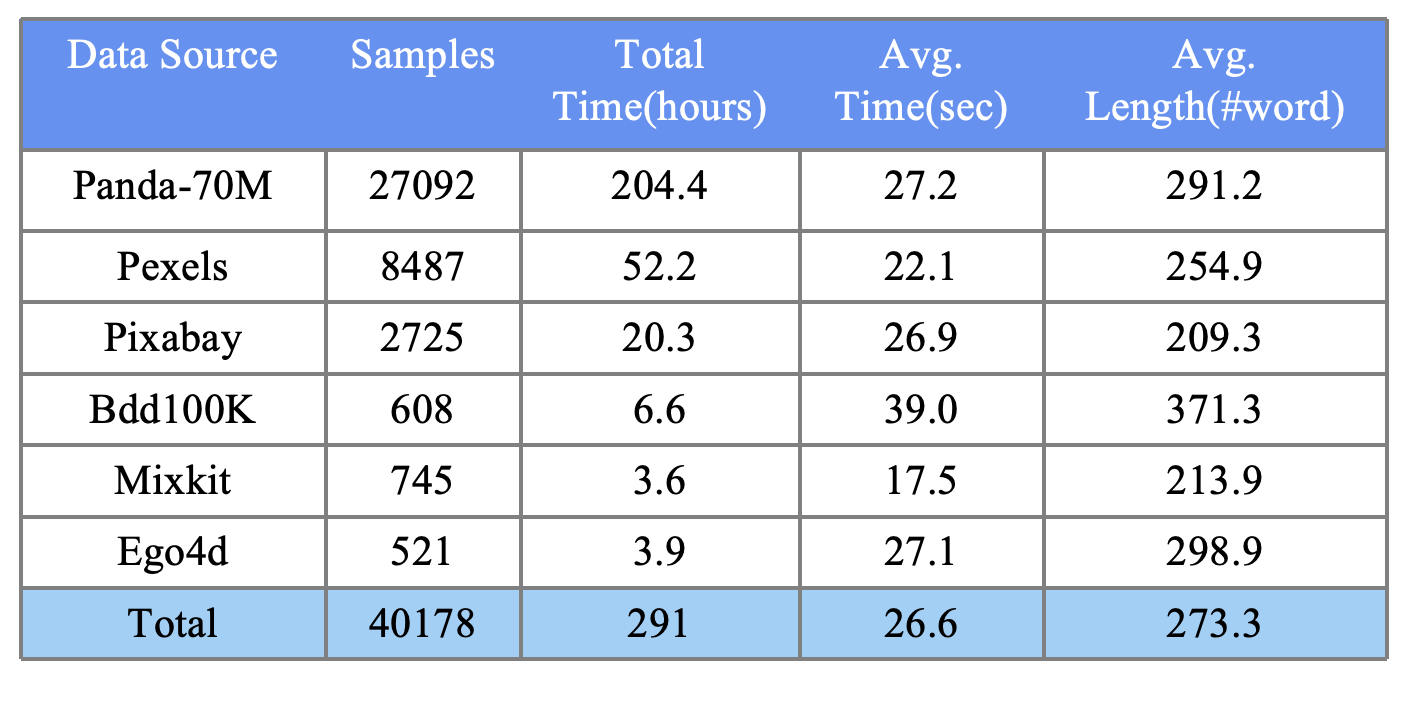
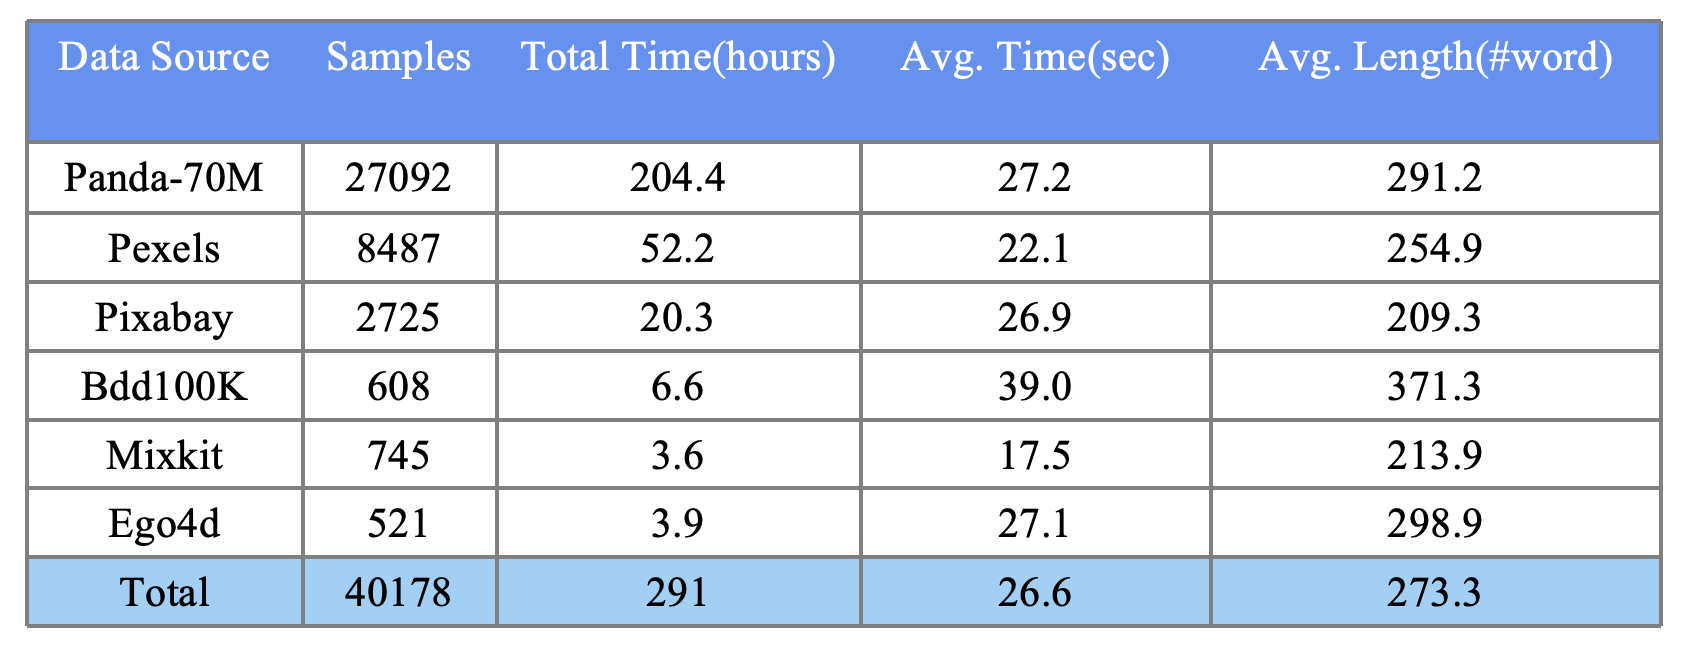
5.27_4

diff --git a/index.html b/index.html
@@ -226,7 +226,7 @@
                 However, the lack of high-quality video-caption data poses a significant challenge, as brief captions cannot fully correspond with complex video content.
                 To this end, we establish a high-quality video-caption dataset, ShareGPT4Video.
                 Specifically, we select 40K diverse videos from multiple sources, including movies, ego-centric applications, landscapes, auto-driving scenarios, natural life, etc. We then introduce a semantic-aware key-frame extraction mechanism, a differential sliding-window captioning strategy, and a hierarchical prompt design to harness GPT4V for automatically and efficiently generating high-quality captions for videos of any duration. The resulting captions encompass rich world knowledge, object attributes, camera movements, and crucially, detailed and precise temporal descriptions of events. 
-                With these efforts, our dataset allows users to flexibly compose captions for any video clip utilizing the provided key-frame captions and timestamps, creating a total of \todo{400K} video-caption pairs.
+                With these efforts, our dataset allows users to flexibly compose captions for any video clip utilizing the provided key-frame captions and timestamps, creating a total of 400K video-caption pairs.
                 Moreover, we develop ShareCaptioner-Video, a superior captioner capable of efficiently generating high-quality captions for videos with a wide range of resolution, aspect ratio, and duration.
                 Through comprehensive experiments, we demonstrate the value of our proposed dataset and captioner in video understanding and generation tasks. We hope this project can serve as a pivotal resource for advancing both the LVLMs and T2VMs community.
               </p>
@@ -253,25 +253,112 @@
             <div class="content has-text-justified">
               <p><b>
                 Dataset Statics
+                </b>
+                <centering>
+                  <style>
+                    table.GeneratedTable {
+                      width: 100%;
+                      background-color: #ffffff;
+                      border-collapse: collapse;
+                      border-width: 2px;
+                      border-color: #c1c4c5;
+                      border-style: solid;
+                      color: #000000;
+                    }
+                    
+                    table.GeneratedTable td, table.GeneratedTable th {
+                      border-width: 2px;
+                      border-color: #9b9d9e;
+                      border-style: solid;
+                      padding: 3px;
+                    }
+                    
+                    table.GeneratedTable thead {
+                      background-color: #6691ee;
+                    }
+                  </style>
+                  <div class="column is-six-fifths" width="80%">
+                  <table class="GeneratedTable">
+                    <thead>
+                      <tr>
+                        <th>Data Source</th>
+                        <th>Samples</th>
+                        <th>Total Time(hours)</th>
+                        <th>Avg. Time(sec)</th>
+                        <th>Avg. Length(#word)</th>
+                      </tr>
+                    </thead>
+                    <tbody>
+                      <tr>
+                        <td>Panda-70M</td>
+                        <td>27092</td>
+                        <td>204.4</td>
+                        <td>27.2</td>
+                        <td>291.2</td>
+                      </tr>
+                      <tr>
+                        <td>Pexels</td>
+                        <td>8487</td>
+                        <td>52.2</td>
+                        <td>22.1</td>
+                        <td>254.9</td>
+                      </tr>
+                      <tr>
+                        <td>Pixabay</td>
+                        <td>2725</td>
+                        <td>20.3</td>
+                        <td>26.9</td>
+                        <td>209.3</td>
+                      </tr>
+                      <tr>
+                        <td>BDD100K</td>
+                        <td>608</td>
+                        <td>6.6</td>
+                        <td>39.0</td>
+                        <td>371.3</td>
+                      </tr>
+                      <tr>
+                        <td>Mixkit</td>
+                        <td>745</td>
+                        <td>3.6</td>
+                        <td>17.5</td>
+                        <td>213.9</td>
+                      </tr>
+                      <tr>
+                        <td>Ego4D</td>
+                        <td>521</td>
+                        <td>3.9</td>
+                        <td>27.1</td>
+                        <td>298.9</td>
+                      </tr>
+                      <tr bgcolor="#a4cff4">
+                        <td>Total</td>
+                        <td>40178</td>
+                        <td>291</td>
+                        <td>26.6</td>
+                        <td>273.3</td>
+                      </tr>
+                    </tbody>
+                  </table>
+                  <p style="font-family:Times New Roman">
+                    <font size=4>
+                    <b>Comprehensive Video Caption Dataset:</b> High-Resolution, Diverse Scenarios from YouTube(Panda-70M), User-Uploaded Sites(Pexels, Pixabay, Mixkit), Ego4D, and BDD100K, which covers a broad spectrum of content including wildlife, cooking, sports, news, TV shows, gaming, 3D rendering, scenery, ego-centric human activities and auto-driving scenarios, tailored for comprehensive <b>video understanding</b> and <b>generation</b> needs.
+                    </font>
+                  </p> 
+                </centering>
+                <b>Pipeline</b>
                 <centering>
                   <div style="text-align: center;">
-                    <img id="teaser" width="60%" src="images/dataset_table.png">     
+                    <img id="teaser" width="100%" src="images/pipeline.png">
+                    <p style="font-family:Times New Roman">
+                      <font size=4>
+                        <b>(a) ShareGPT4Video Dataset Pipeline</b>
+                        <b>(b) Example of Generated Video Caption</b>
+                      </font>
+                    </p>
                   </div>
                 </centering>
-                <centering>
-                  <div style="text-align: center;">
-                    <img id="teaser" width="35%" src="images/video_length.png">
-                    <img id="teaser" width="35%" src="images/caption_length.png">   
-                    <img id="teaser" width="25%" src="images/ci_pie.png">        
-                  </div>
-                </centering>
-                Pipeline
-                <centering>
-                  <div style="text-align: center;">
-                    <img id="teaser" width="100%" src="images/pipeline.png">     
-                  </div>
-                </centering>
-                Text-to-Video Cases
+                <b>Text-to-Video Cases</b>
                 <div id="results-carousel" class="carousel results-carousel">
                   <div class="box m-5">
                     <div class="content has-text-centered">
@@ -310,7 +397,6 @@
                     </div>
                   </div>
                 </div>
-              </b>
             </div> 
           </div>
         </div>
